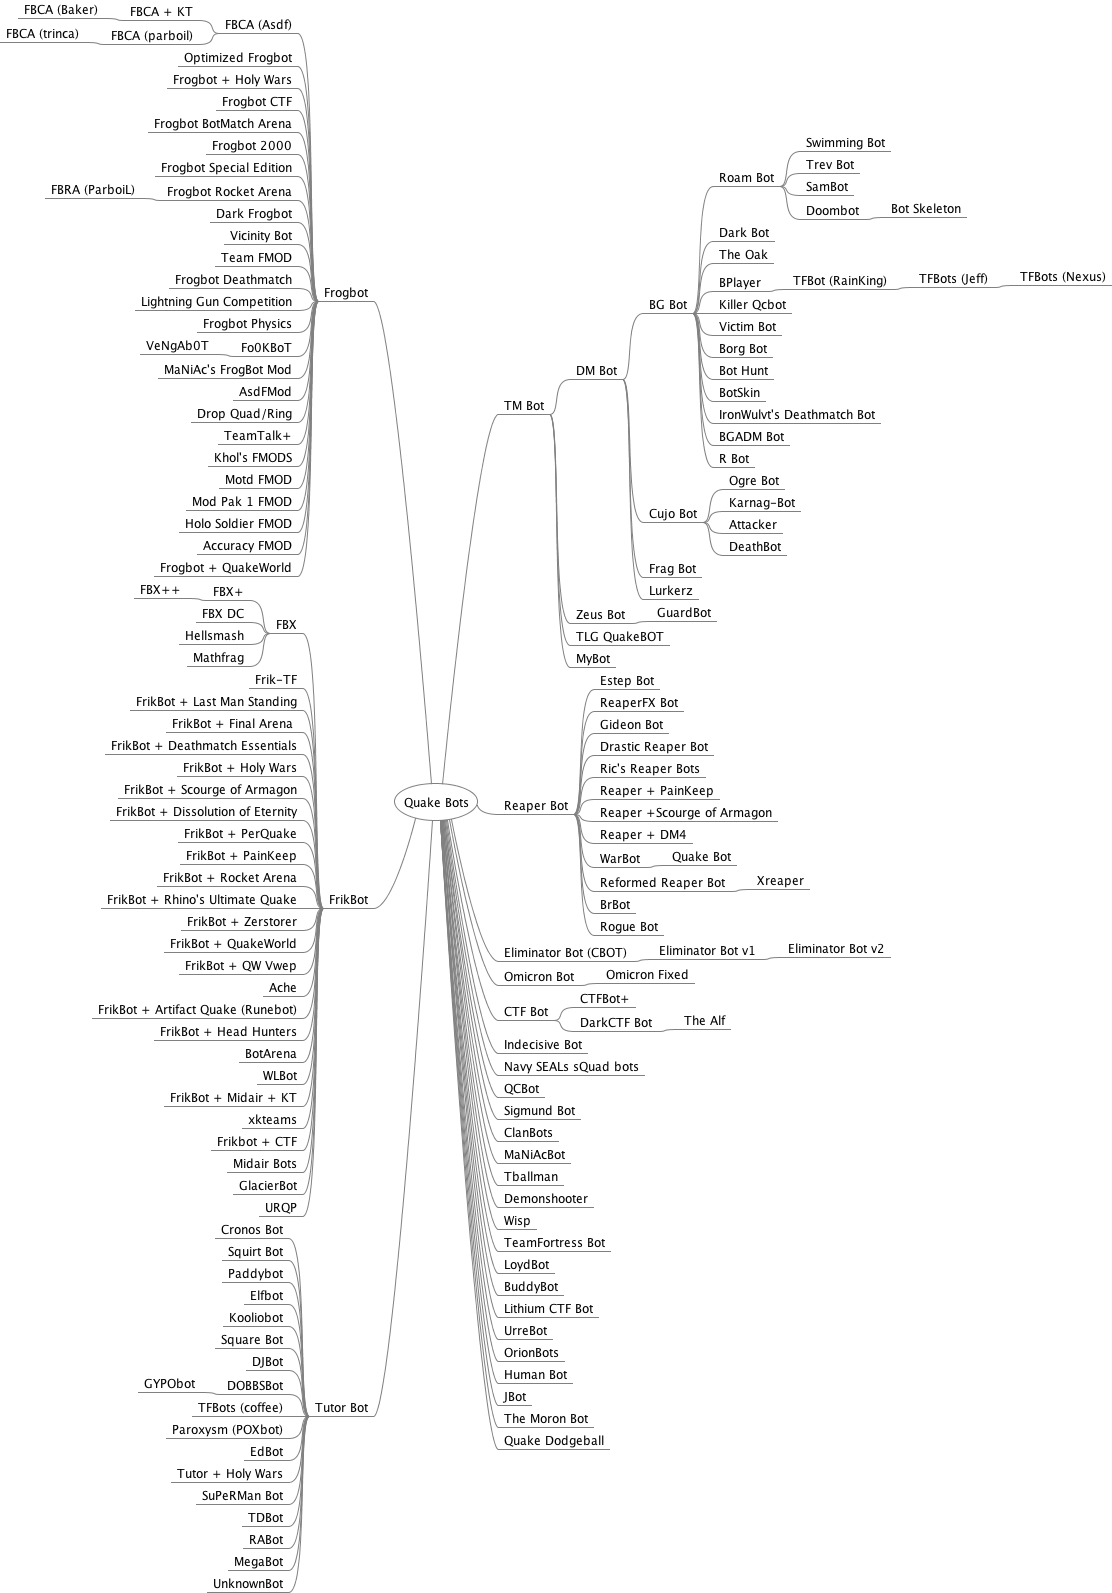
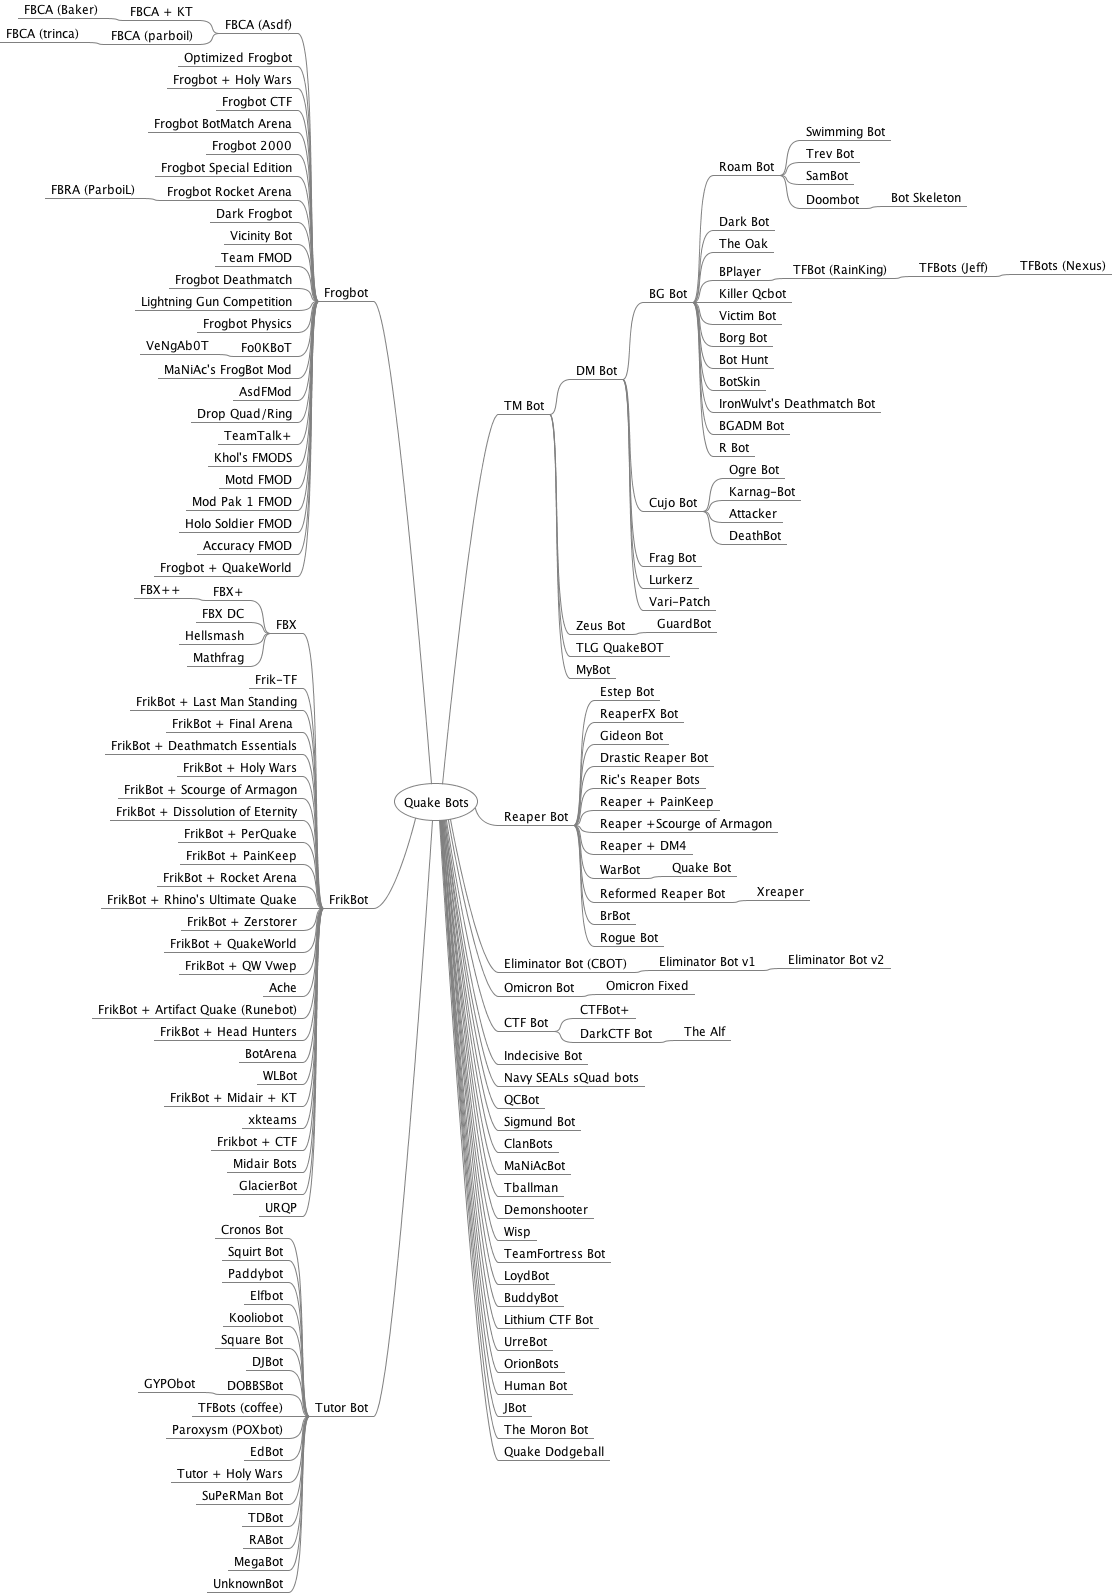
Added Vari-Patch

diff --git a/mindmap/QuakeBots.mm b/mindmap/QuakeBots.mm
@@ -38,6 +38,7 @@
 </node>
 <node CREATED="1622771387942" ID="ID_1594026626" MODIFIED="1622771389522" TEXT="Frag Bot"/>
 <node CREATED="1627619237534" ID="ID_1023107732" MODIFIED="1627619238475" TEXT="Lurkerz"/>
+<node CREATED="1628115916934" ID="ID_788549118" MODIFIED="1628115917879" TEXT="Vari-Patch"/>
 </node>
 <node CREATED="1622515114030" ID="ID_1053807187" MODIFIED="1622515117059" TEXT="Zeus Bot">
 <node CREATED="1622679762312" ID="ID_999161144" MODIFIED="1622679763940" TEXT="GuardBot"/>

diff --git a/README.md b/README.md
@@ -190,6 +190,7 @@ Tutor Bot | Darryl Atchison aka "coffee" | [tutor.zip](bin/tutor.zip)
 Ultimate Regular Quake Patch (URQP) | Matthias Buecher aka "Maddes" | [urqp106a.zip](bin/urqp106a.zip)<br>[urqp106.zip](bin/urqp106.zip)<br>[urqp105.zip](bin/urqp105.zip)<br>[urqp104a.zip](bin/urqp104a.zip)
 UnknownBot | Brian L. | [ubot14.zip](bin/ubot14.zip)
 UrreBot | Marko Permanto aka "Urre" | [urrebot20050820.zip](bin/urrebot20050820.zip)<br>[urrebot20050813.zip](bin/urrebot20050813.zip)<br>[wayboxedit20050813.zip](bin/wayboxedit20050813.zip)
+Vari-Patch | Chris Millward | var19.zip ([txt](bin/var19.txt))<br>var18.zip ([txt](bin/var18.txt))<br>var14.zip
 VeNgAb0T | "WuPP" | [venga.zip](bin/venga.zip)
 Vicinity Bot | "Black" | vicinityqwprogs.zip<br>vicinitymodels.zip<br>vicinitysource.zip
 Victim Bot | Tony Tang aka "The TangMaster" | [vbot11.zip](bin/vbot11.zip) ([txt](bin/vbot11.txt))<br>[vbot1.zip](bin/vbot1.zip)
